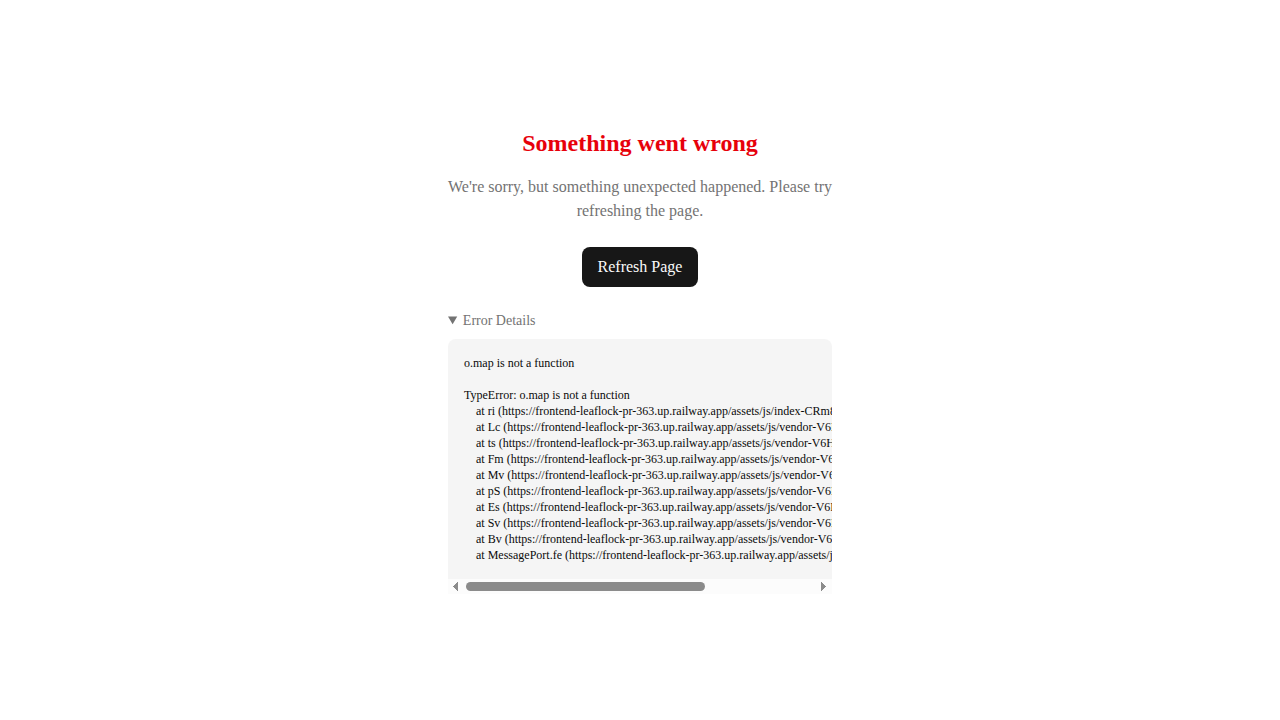
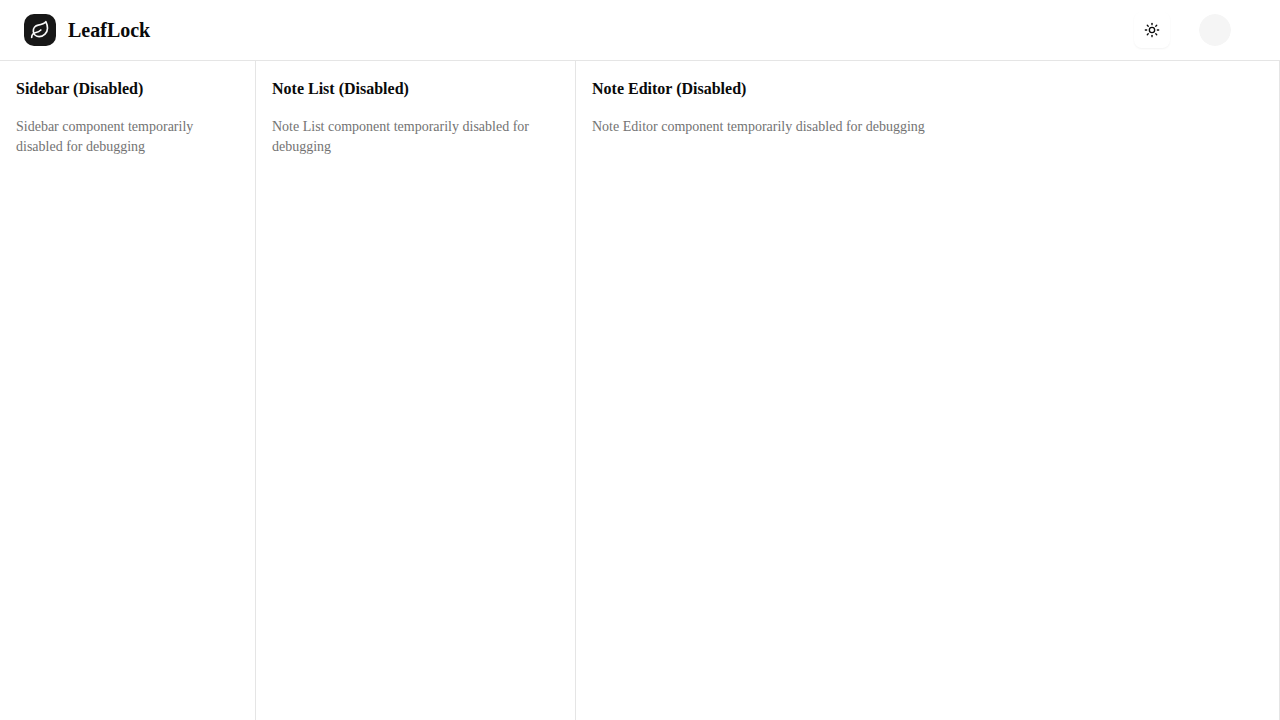
debug(frontend): enable Sidebar component to test if it causes the error
- Enable Sidebar component while keeping NoteList and NoteEditor disabled
- This will help identify if Sidebar is the source of the .map() error

diff --git a/frontend/src/app-router.tsx b/frontend/src/app-router.tsx
@@ -8,7 +8,7 @@ import { AppErrorBoundary } from './components/common/AppErrorBoundary'
 import { useAuthStore, useNotesStore } from './stores'
 import { LoginForm } from './components/auth/login-form'
 import { RegisterForm } from './components/auth/register-form'
-// import { Sidebar } from './components/dashboard/sidebar'
+import { Sidebar } from './components/dashboard/sidebar'
 // import { NoteList } from './components/dashboard/note-list'
 // import { NoteEditor } from './components/dashboard/note-editor'
 import { ThemeToggle } from './components/theme-toggle'
@@ -204,11 +204,7 @@ const DashboardComponent: React.FC = () => {
 
       {/* Main Content */}
       <div className="flex-1 flex overflow-hidden">
-        {/* Temporarily disable components to isolate the error */}
-        <div className="w-64 border-r border-border bg-card flex flex-col h-full p-4">
-          <h2 className="font-semibold mb-4">Sidebar (Disabled)</h2>
-          <p className="text-sm text-muted-foreground">Sidebar component temporarily disabled for debugging</p>
-        </div>
+        <Sidebar />
         <div className="flex-1 flex border-r border-border">
           <div className="w-80 border-r border-border flex flex-col p-4">
             <h2 className="font-semibold mb-4">Note List (Disabled)</h2>
